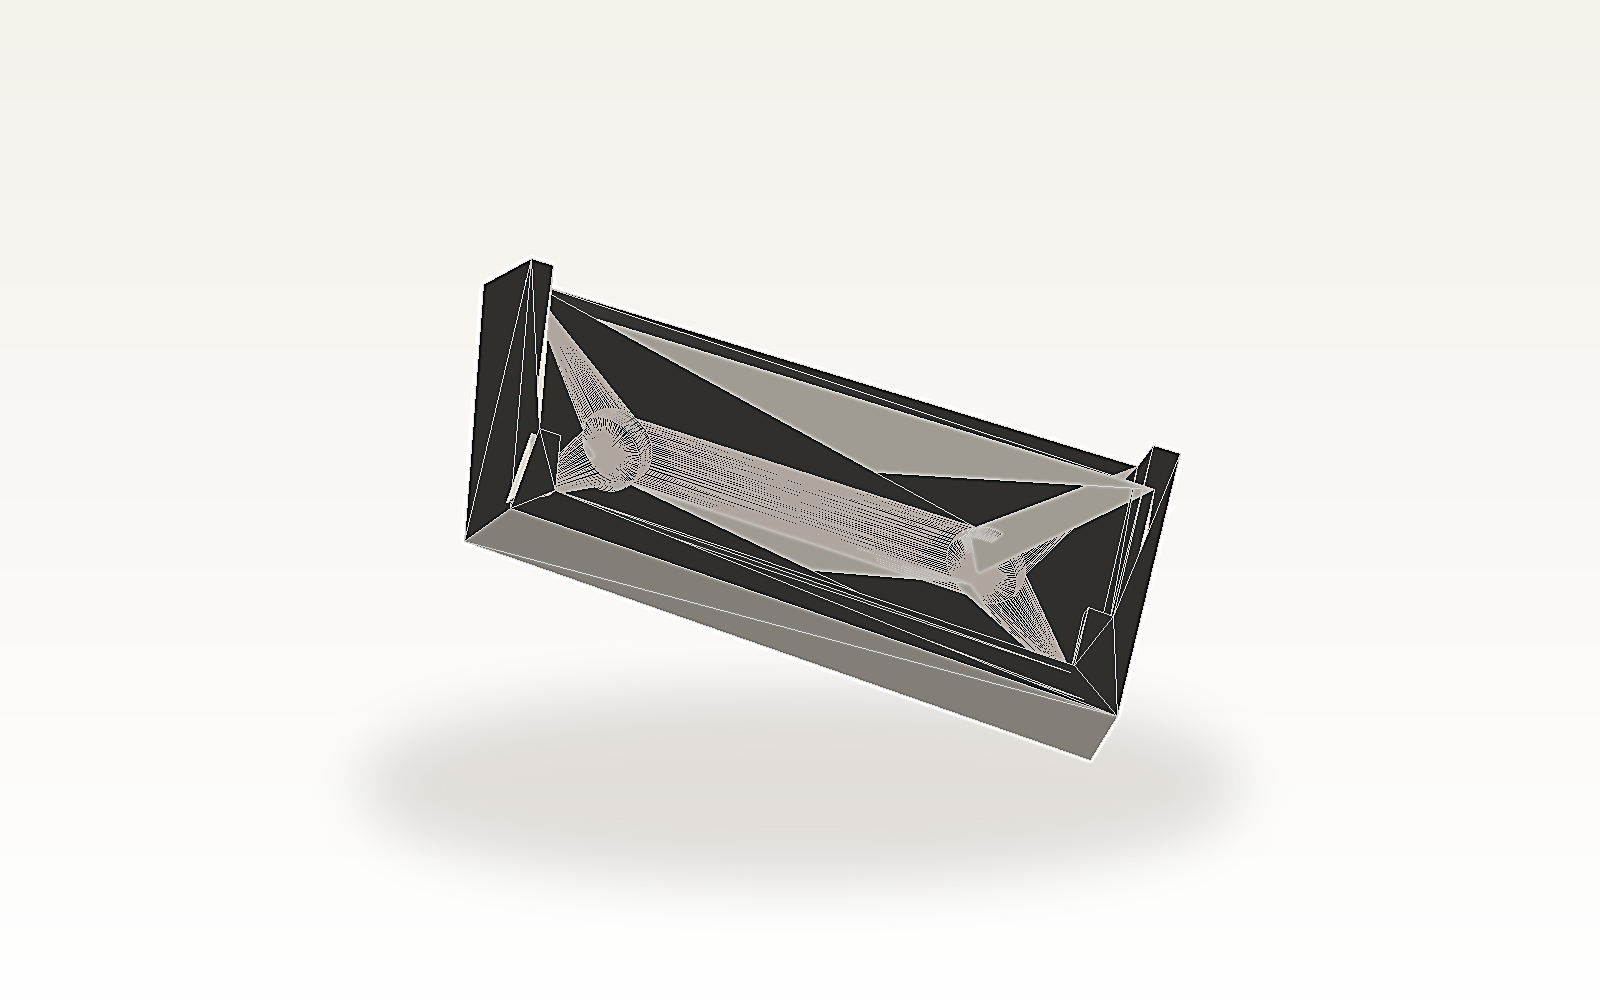
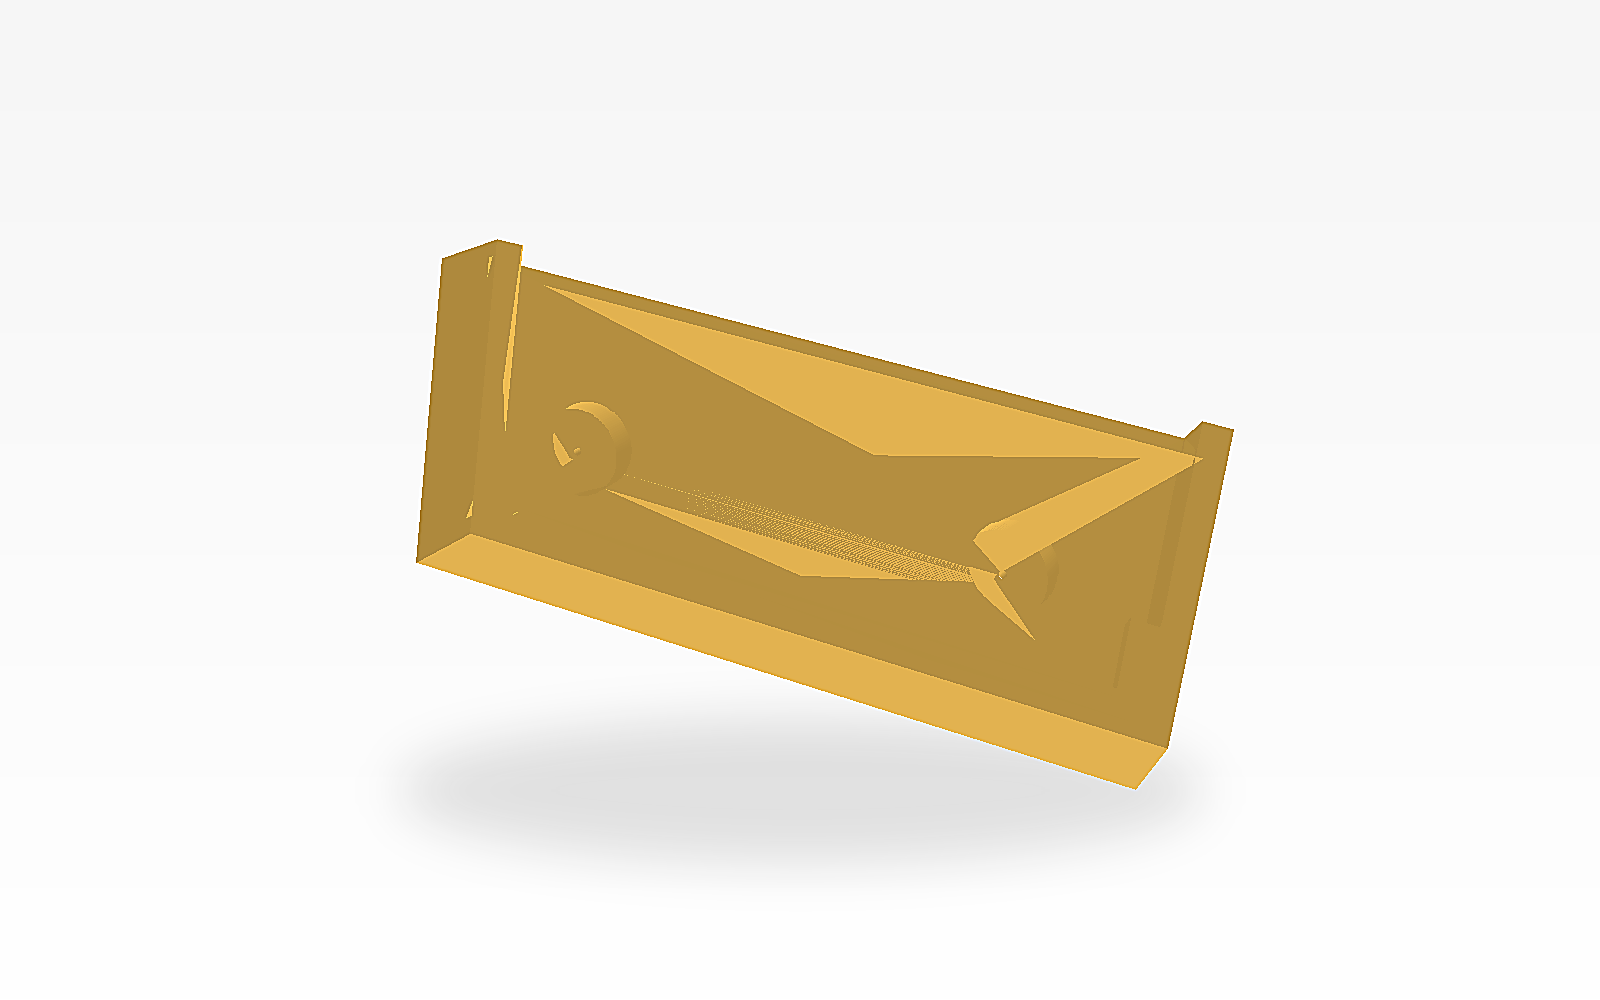
Improve README preview renders

Changed region(s): [[0.25, 0.248, 0.7812, 0.806]]

diff --git a/tools/render_stl_preview.py b/tools/render_stl_preview.py
@@ -16,8 +16,8 @@ Triangle = Tuple[Vec3, Vec3, Vec3]
 
 
 VIEW_PRESETS = {
-    "front": {"rotation": (-28.0, 18.0, -18.0), "distance": 340.0},
-    "rear": {"rotation": (-24.0, -160.0, 12.0), "distance": 340.0},
+    "front": {"rotation": (-22.0, 20.0, -16.0), "distance": 335.0},
+    "rear": {"rotation": (-18.0, -156.0, 10.0), "distance": 335.0},
 }
 
 
@@ -171,36 +171,35 @@ def render(
     max_x = max(abs(point[0]) for point in all_points)
     max_y = max(abs(point[1]) for point in all_points)
     max_extent = max(max_x, max_y)
-    scale = min(width * 0.34, height * 0.42) / max_extent
+    scale = min(width * 0.42, height * 0.48) / max_extent
 
-    image = Image.new("RGBA", (width, height), "#f5f1eb")
+    image = Image.new("RGBA", (width, height), "#f6f6f6")
     background = ImageDraw.Draw(image)
     for y in range(height):
         t = y / max(height - 1, 1)
-        r = int(245 + (255 - 245) * t)
-        g = int(241 + (255 - 241) * t)
-        b = int(235 + (255 - 235) * t)
+        r = int(246 + (255 - 246) * t)
+        g = int(246 + (255 - 246) * t)
+        b = int(246 + (255 - 246) * t)
         background.line((0, y, width, y), fill=(r, g, b, 255))
 
     shadow = Image.new("RGBA", (width, height), (0, 0, 0, 0))
     shadow_draw = ImageDraw.Draw(shadow)
     shadow_bounds = (
-        int(width * 0.23),
-        int(height * 0.70),
-        int(width * 0.77),
-        int(height * 0.87),
+        int(width * 0.25),
+        int(height * 0.72),
+        int(width * 0.75),
+        int(height * 0.86),
     )
-    shadow_draw.ellipse(shadow_bounds, fill=(125, 104, 85, 52))
-    shadow = shadow.filter(ImageFilter.GaussianBlur(28))
+    shadow_draw.ellipse(shadow_bounds, fill=(40, 40, 40, 34))
+    shadow = shadow.filter(ImageFilter.GaussianBlur(24))
     image.alpha_composite(shadow)
 
     draw = ImageDraw.Draw(image)
-    light = v_norm((-0.55, 0.8, 0.65))
-    base = (222, 214, 203)
-    edge = (118, 104, 91, 150)
+    light = v_norm((-0.45, 0.85, 0.55))
+    base = (242, 191, 86)
 
     for triangle, normal, avg_depth in sorted(rotated, key=lambda item: item[2]):
-        shade = max(0.22, min(1.0, 0.42 + 0.58 * v_dot(normal, light)))
+        shade = max(0.72, min(1.0, 0.84 + 0.20 * v_dot(normal, light)))
         color = tuple(int(channel * shade) for channel in base) + (255,)
         points_2d = []
         for point in triangle:
@@ -208,9 +207,9 @@ def render(
             sx = width / 2 + point[0] * scale * factor
             sy = height / 2 - point[1] * scale * factor
             points_2d.append((sx, sy))
-        draw.polygon(points_2d, fill=color, outline=edge)
+        draw.polygon(points_2d, fill=color)
 
-    image = image.filter(ImageFilter.UnsharpMask(radius=1.8, percent=130, threshold=3))
+    image = image.filter(ImageFilter.UnsharpMask(radius=1.4, percent=105, threshold=2))
     os.makedirs(os.path.dirname(output_path), exist_ok=True)
     image.save(output_path)
 
